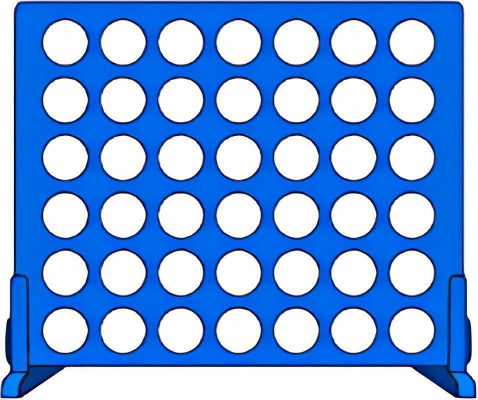
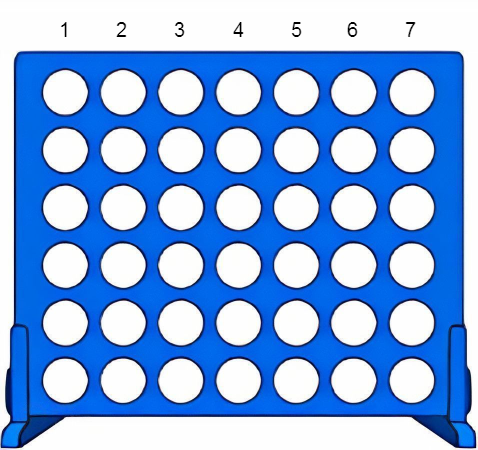
commit

diff --git a/games/connectfour/Board.java b/games/connectfour/Board.java
@@ -48,7 +48,7 @@ public class Board
         int xMargin, yMargin, width, height, xPosition, yPosition;
         
         xMargin = 41;
-        yMargin = 308;
+        yMargin = 358;
         width = 58;
         height = 58;
 
@@ -190,12 +190,5 @@ public class Board
         {
             c.println("It's a tie.");
         }
-
-        this.displayWin(player);
-    }
-
-    public void displayWin(int player)
-    {
-        
     }
 }

diff --git a/utils/Utils.java b/utils/Utils.java
@@ -214,6 +214,11 @@ public class Utils
 
 		for(int index = 0; index < checkLength; index++)
 		{
+			if(array[index] == target)
+			{
+				
+			}
+			
 			for(int consecutiveNumber = 0; consecutiveNumber < length; consecutiveNumber++)
 				if(array[index + consecutiveNumber] == target)
 					rowLength++;
